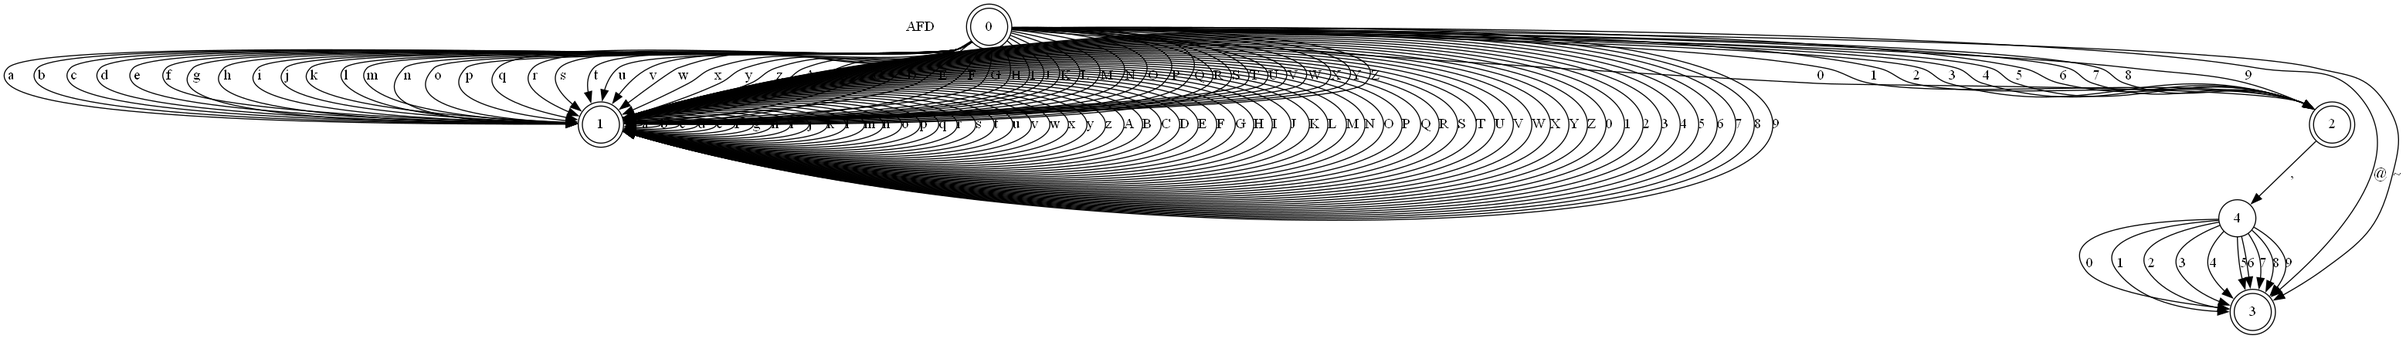
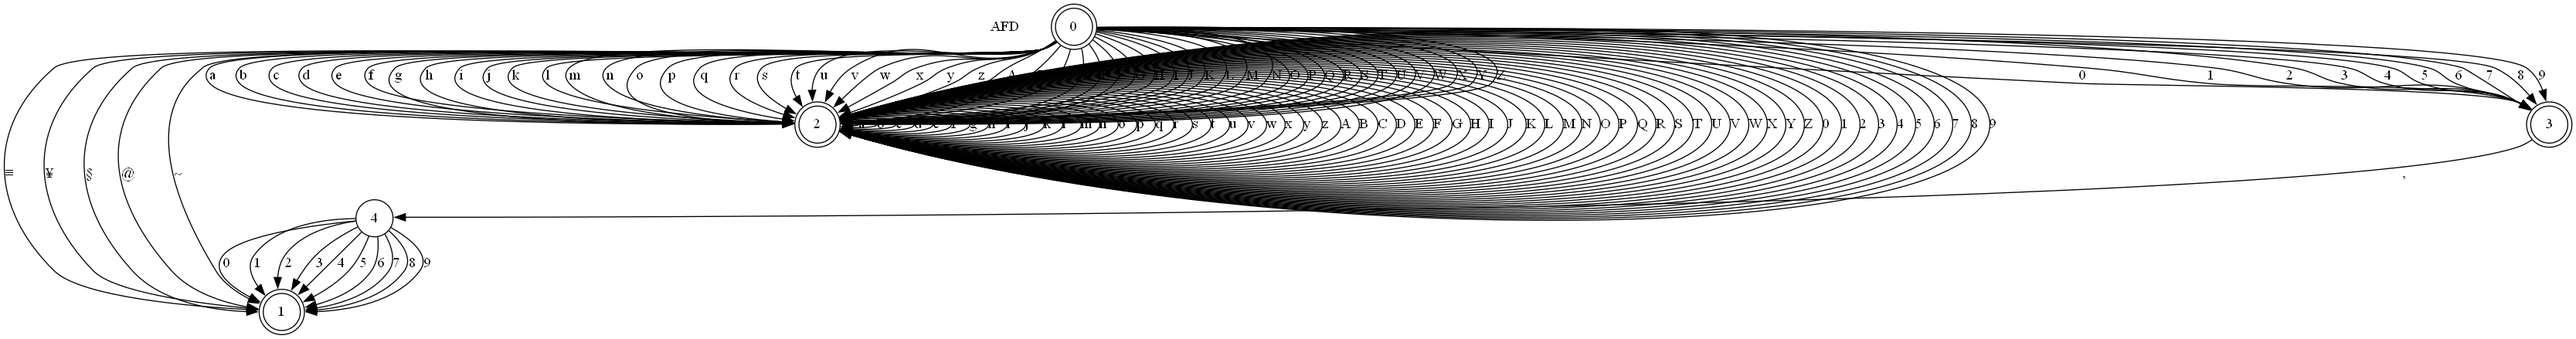
agregando la aceptación del delim

diff --git a/main2.py b/main2.py
@@ -93,6 +93,22 @@ with open("exp1.yal", "r") as file:
         tabla['sign'] = tabla['sign'].replace("['+'|'-']", new_signs)
 
     
+    # Leyendo el delim.
+    if 'delim' in tabla:
+
+        print("Hay un delim")
+
+        new_delims = "≡|¥|§"
+        tabla['delim'] = tabla['delim'].replace("[' ''\\t''\\n']", new_delims)
+    
+    if 'ws' in tabla: 
+        new_delims = "≡|¥|§"
+        tabla['ws'] = tabla['ws'].replace("delim", new_delims)
+
+        # Verificando como está el delim.
+        # Si el delim está así [' ''\t''\n'], crear un or entre ellos.
+
+
     # print("Tabla: ", tabla)
 
     # Verificando si existen corchetes para reemplazarlos con paréntesis.
